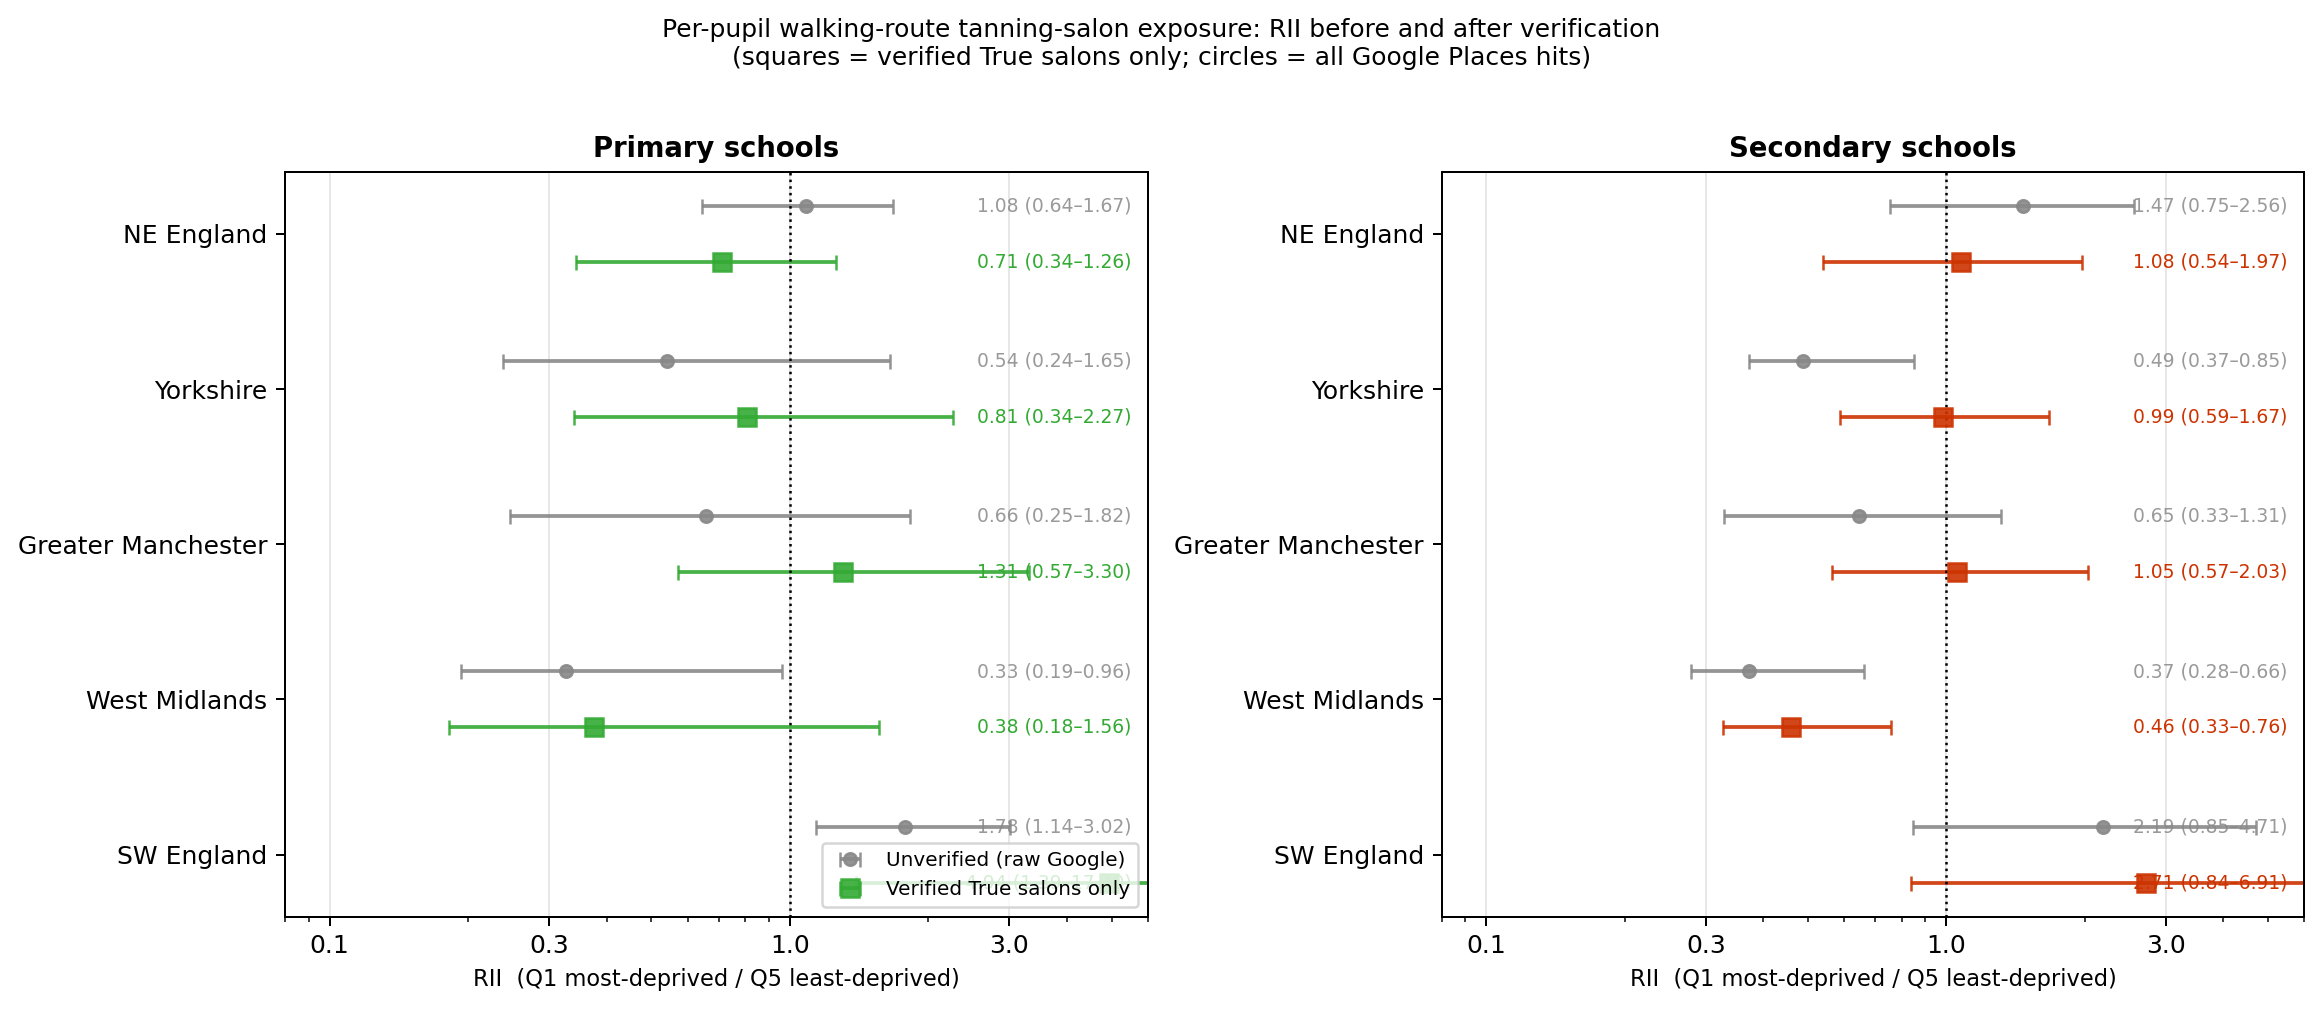
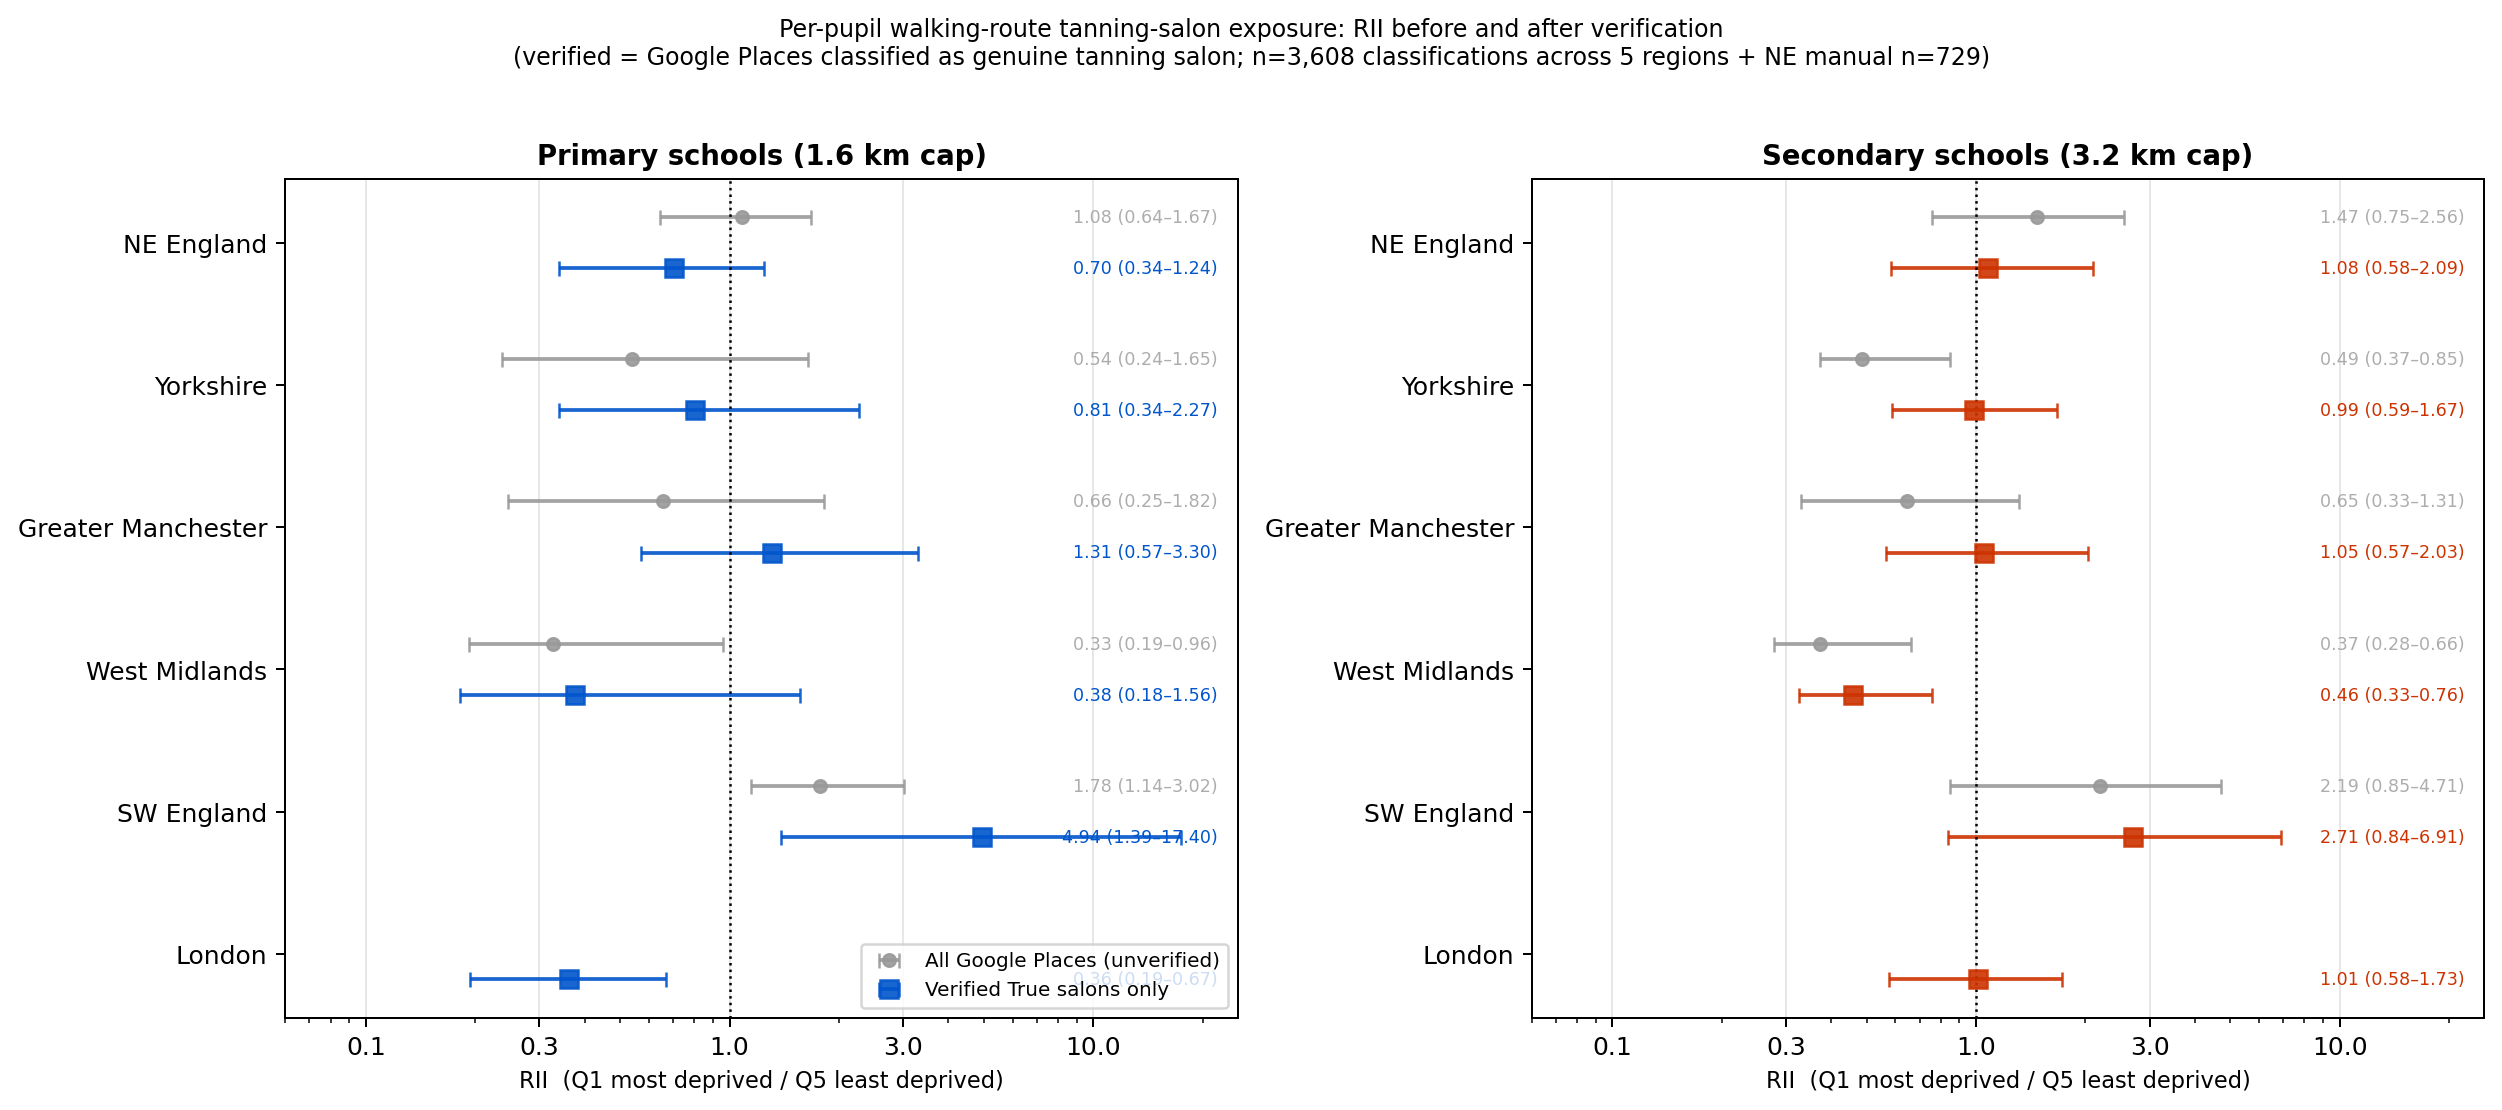
Stage 10: London route analysis + 6-region verified outputs
- Added London to cross-regional pipeline (33 GLA boroughs, same LSOA-level
  PWC / empirical 1.6/3.2 km cap / origin-IMD methodology as other regions)
  Results: primary RII=0.391 (0.22–0.69, CI<1), secondary RII=0.872 (0.57–1.30)
  — significant inverted primary gradient, flat secondary
- Re-ran verified analysis for all 6 regions (NE + 4 cross-regional + London)
  using verified True place_ids; NE now uses cross-regional parquet (1,627/1,437
  primary/secondary routes) for methodological consistency with other regions
- T14: 6-region unverified route RII
- T15_6region: same, named in T15 series
- T14_verified: 5 non-NE cross-regional verified
- T15_verified_6region: all 6 regions verified (PRIMARY RESULTS)
- F12: updated forest plot (unverified vs verified, 6 regions)
- F13: new England map showing verified secondary route-RII by region
- DEC-022 added: rationale for London inclusion and NE pipeline consistency fix

diff --git a/DECISIONS.md b/DECISIONS.md
@@ -126,3 +126,13 @@ Resolution: extended each truncated bbox to fully enclose its LAD polygons (with
 **Key finding from verification:** False-positive rates vary systematically by IMD quintile. In Yorkshire (Q1=40% FP vs Q5=78% FP) and West Midlands (Q1=33% FP vs Q5=61% FP), the unadjusted counts substantially over-represent salons in the least-deprived quintile. This means the unadjusted Q1/Q5 density ratios and route-RII values are *underestimates* of the true deprivation gradient in those regions. After verification, the apparent WM density inversion (raw Q1/Q5=0.71) is expected to resolve toward parity or positive gradient.
 
 **How to apply:** T14_verified / T15_verified / T13_verified are the primary results tables. T14 / T15 / T13 (unverified) are retained for the Lorigan-comparability sensitivity. DECISIONS.md and the manuscript methods section must clearly state that the primary analysis excludes verified false positives.
+
+## DEC-022 — London added to route-exposure analysis; NE re-run through cross-regional pipeline for methodological parity
+**Date:** 2026-05-03
+**Reason:** Two consistency issues resolved simultaneously:
+
+1. **NE methodology inconsistency.** The original NE route buffer used OA-level origin centroids (~8,627 routes) and old 2 km/5 km caps. All cross-regional regions used LSOA-level PWCs (~1,600 routes) and the DEC-017 empirical caps (1.6 km/3.2 km). NE has now been re-run through `region_route_pipeline.py` with the same settings as the other four cross-regional regions: LSOA PWCs, 1.6/3.2 km caps, origin-IMD, age-cohort weights, cluster-bootstrap by LAD. Results: NE primary RII=0.705 (0.366–1.225), secondary RII=0.962 (0.559–1.910). These replace the earlier NE estimates in all primary outputs. The old OA-based NE estimates are retained in `data/processed/route_buffer_50m_20260428.gpkg` for sensitivity reference.
+
+2. **London added.** London was included in the cross-regional density analysis (T13) and verification CSV but not the route-RII analysis. The rigorously correct analysis includes London: (a) the density result (flat Q1/Q5 ratio) is a genuine empirical finding that merits a route-RII companion; (b) London's verified false-positive rates are known (455/800 = 56.9% True); (c) omitting London from the route analysis while including it in the density comparison would be methodologically asymmetric. London has been added to `region_route_pipeline.py` with bbox (-0.566, 51.272, 0.391, 51.704) and all 33 GLA borough LAD codes (E09000001–E09000033). Walk network built from the same GB PBF, same 1.6/3.2 km caps.
+
+**How to apply:** T14 / T14_verified / T15_verified now contain 6 regions. Manuscript introduction should note London explicitly alongside the five non-London regions. The flat London route-RII (expected given the flat density pattern) is an important null comparator: it shows that the positive gradient seen in NE/SW is not a universal feature of English cities.